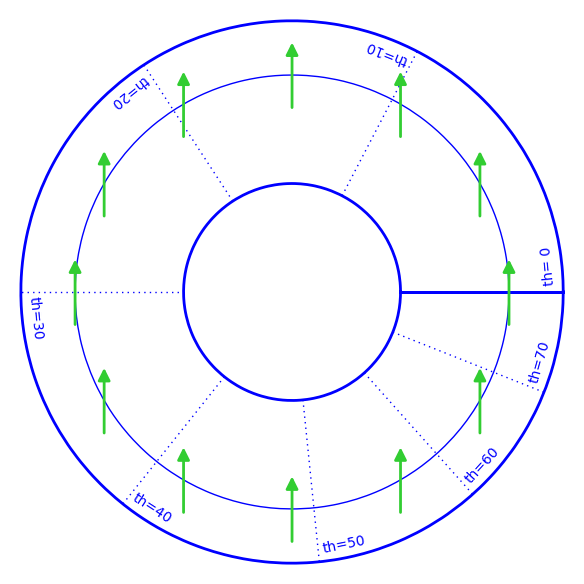
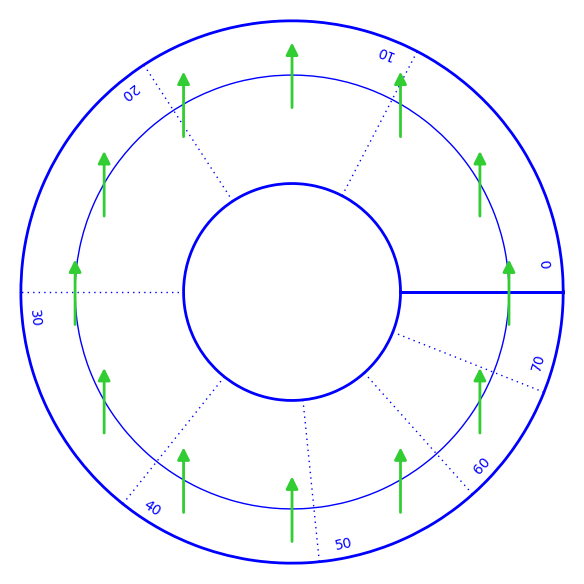
anime

diff --git a/Foucault/papermodel.py b/Foucault/papermodel.py
@@ -34,7 +34,7 @@ num = 9
 delta = pi/num/2
 for n in range(num-1):
     lat = n * delta; #print lat
-    p += rline(2*pi*sin(lat), 0.4, 1,  u"th=%2d" % (180*lat/pi), 0.95, 0.1, linestyle='dotted')
+    p += rline(2*pi*sin(lat), 0.4, 1,  u"%2d" % (180*lat/pi), 0.95, 0.1, linestyle='dotted')
 
 num = 12
 delta = 2 * pi/num
